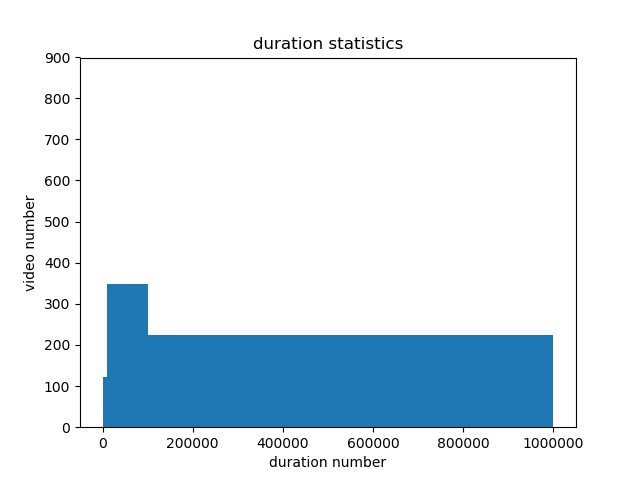
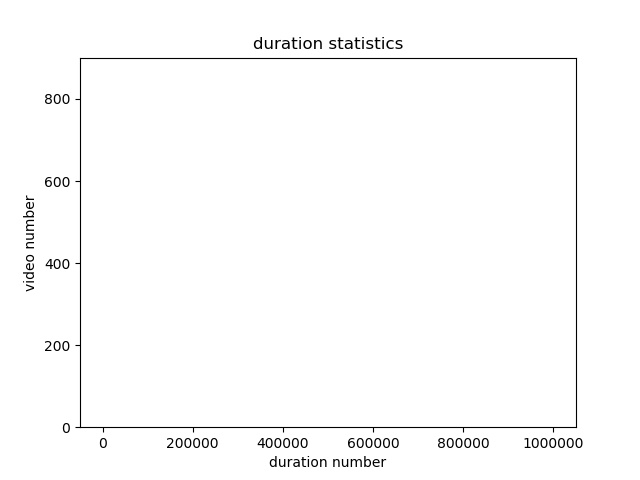
Amend and debug.

diff --git a/bilibili_content_analysis.py b/bilibili_content_analysis.py
@@ -48,6 +48,7 @@ class BilibiliAnalysis:
         #     xticks.append(i)
 
         bar_num = defaultdict(int)
+        print(data_array)
         for data in data_array:
             for i in range(1, len(xticks)):
                 if int(xticks[i]) > data >= int(xticks[i - 1]):
@@ -461,15 +462,17 @@ class BilibiliAnalysis:
             result_dict["like"].append(video_info_dict["like_num"])
             result_dict["favorite"].append(video_info_dict["favorite_num"])
         res_str = ','.join([str(i) for i in result_dict["view"]])
-        print(res_str)
         for key in result_dict:
             image_path = "./" + key + "_bar.jpg"
             x_label_name = key + " number"
             y_label_name = "video number"
             title_str = key + " statistics"
             hist_num = 10
+            print(key)
+            print(result_dict[key])
+            print(xtick_dict[key])
             # self.draw_hist(result_dict[key], x_label_name, y_label_name, title_str, image_path, hist_num)
-            self.draw_hist(result_dict[key], x_label_name, y_label_name, title_str, image_path, xtick_dict[key])
+            self.draw_bar(result_dict[key], x_label_name, y_label_name, title_str, image_path, xtick_dict[key])
 
 
 if __name__ == "__main__":
